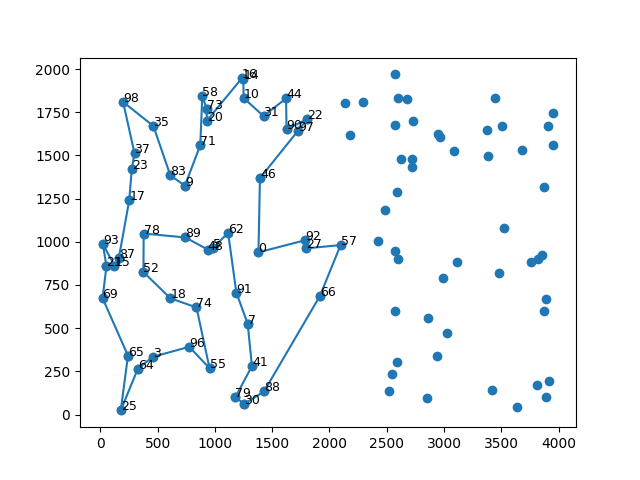
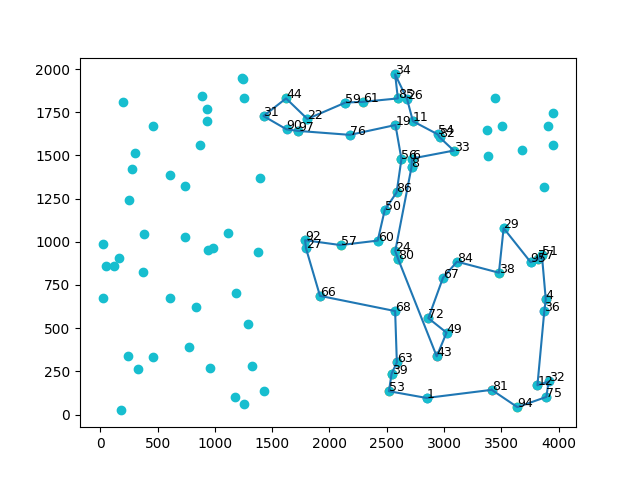
add comments

diff --git a/TSPproblem/regret.py b/TSPproblem/regret.py
@@ -8,7 +8,7 @@ class Regret():
         pass
 
 
-    def find_best_vert(self, matrix, visited):
+    def find_two_best_verts(self, matrix, visited):
         lowest_cost_for_edges = {}
         best_vert_for_edges = {}
         to_check = list(set(range(len(matrix))) - set(visited))
@@ -40,14 +40,14 @@ class Regret():
         for _ in range(0, vertNo - 2):
             temp_visited = visited.copy()
             temp_visited2 = visited.copy()
-            best_key, best_key2, best_vert_for_edges = self.find_best_vert(matrix, visited)
-            temp_visited = np.insert(np.array(temp_visited), best_key[1], best_vert_for_edges[best_key])
-            temp_visited = np.insert(np.array(temp_visited), best_key2[1], best_vert_for_edges[best_key2])
-            cost1 = count_distance(matrix, temp_visited)
-            temp_visited2 = np.insert(np.array(temp_visited2), best_key2[1], best_vert_for_edges[best_key2])
-            temp_visited2 = np.insert(np.array(temp_visited2), best_key[1], best_vert_for_edges[best_key])
-            cost2 = count_distance(matrix, temp_visited2)
-            if cost1 < cost2:
+            best_key, best_key2, best_vert_for_edges = self.find_two_best_verts(matrix, visited) # find two best vert which distance to visited egdes is min
+            temp_visited = np.insert(np.array(temp_visited), best_key[1], best_vert_for_edges[best_key]) # add first best
+            temp_visited = np.insert(np.array(temp_visited), best_key2[1], best_vert_for_edges[best_key2]) # add second next best
+            cost1 = count_distance(matrix, temp_visited) # calculate cost
+            temp_visited2 = np.insert(np.array(temp_visited2), best_key2[1], best_vert_for_edges[best_key2]) # add first second best
+            temp_visited2 = np.insert(np.array(temp_visited2), best_key[1], best_vert_for_edges[best_key]) # add second first best
+            cost2 = count_distance(matrix, temp_visited2) # calculate cost
+            if cost1 > cost2: # insert value with
                 visited = np.insert(np.array(visited), best_key[1], best_vert_for_edges[best_key])
             else:
                 visited = np.insert(np.array(visited), best_key2[1], best_vert_for_edges[best_key2])

diff --git a/TSPproblem/greedy_cycle.py b/TSPproblem/greedy_cycle.py
@@ -19,19 +19,19 @@ class GreedCycle():
         for _ in range(0, vertNo - 2):
             lowest_cost_for_edges = {}
             best_vert_for_edges = {}
-            to_check = list(set(range(len(matrix))) - set(visited))
+            to_check = list(set(range(len(matrix))) - set(visited)) # all vert not visited
             # for all edges check distances to all free verts and get min cost
             for j in range(len(visited) - 1):
                 new_vert_cost = {}
-                for v in to_check:
-                    new_vert_cost[v] = cost(visited[j], visited[j + 1], v, matrix)
-                min_cost_key = int(min(new_vert_cost, key=new_vert_cost.get))
-                lowest_cost_for_edges[(j, j + 1)] = new_vert_cost[min_cost_key]
-                best_vert_for_edges[(j, j + 1)] = min_cost_key
+                for v in to_check:  # check all not visited vert
+                    new_vert_cost[v] = cost(visited[j], visited[j + 1], v, matrix) # method cost calculate distance between new vert and egdes from visited [j] &[j+1]
+                min_cost_key = int(min(new_vert_cost, key=new_vert_cost.get)) #  minimum distance
+                lowest_cost_for_edges[(j, j + 1)] = new_vert_cost[min_cost_key] # minimum distance for all edges
+                best_vert_for_edges[(j, j + 1)] = min_cost_key # vert
             # final edge cost (last in list and first)
             new_vert_cost = {}
             for v in to_check:
-                new_vert_cost[v] = cost(visited[-1], visited[0], v, matrix)
+                new_vert_cost[v] = cost(visited[-1], visited[0], v, matrix) # check last and first vert(one edges) from visited
             min_cost_key = int(min(new_vert_cost, key=new_vert_cost.get))
             lowest_cost_for_edges[(len(visited) - 1, 0)] = new_vert_cost[min_cost_key]
             best_vert_for_edges[(len(visited) - 1, 0)] = min_cost_key

diff --git a/TSPproblem/visualisation.py b/TSPproblem/visualisation.py
@@ -10,6 +10,7 @@ def plot_result(coords, visitedMatrix, path_to_save, name):
 
     x_to_plot.append(X[visitedMatrix[0]])
     y_to_plot.append(Y[visitedMatrix[0]])
+
     for i, txt in enumerate(visitedMatrix):
         plt.scatter(x_to_plot[i], y_to_plot[i])
         plt.text(x_to_plot[i], y_to_plot[i], str(txt), fontsize=9)
